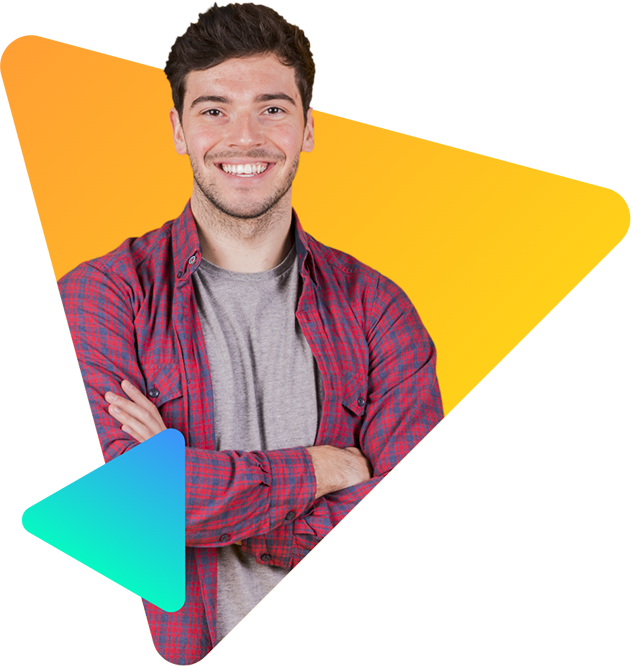
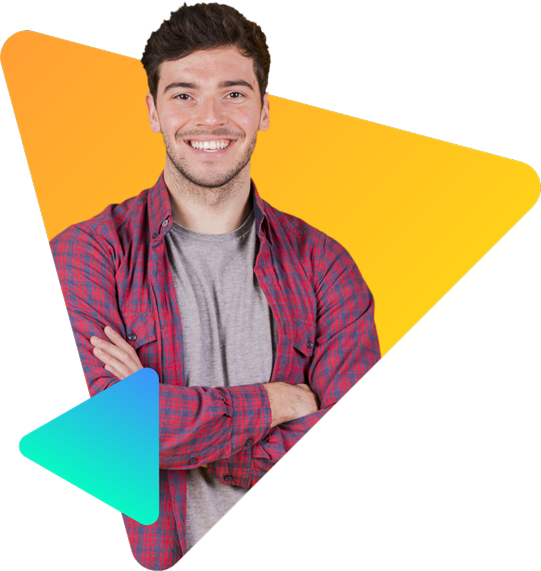
latest

diff --git a/index.html b/index.html
@@ -11,7 +11,7 @@
 </head>
 <body>
     <section class="top-header border ">
-        <div class="half-width">
+        <div id="text-align" class="half-width">
             <h3>Hello I'm </h3>
             <h1 span class="name-highlight">Noor Piash</h1>
             <p>My goal is to established myself as one of the best <span>web developers</span> in the world. I hope that can happen soon
@@ -20,7 +20,7 @@
         </div>
 
         <div class="half-width">
-            <img src="peter.png" alt="">
+            <img class="noorpic" src="noorpiashhdnew.png" alt="">
         </div>
     </section>
 </body>

diff --git a/style.css b/style.css
@@ -8,16 +8,15 @@ body{
 .name-highlight{
     color: rgb(231, 44, 191);
     font-size: 45px;
-    margin-top: 10px;
-     
-
+   
 }
 
-h3{
-    margin-bottom: -15px;
+h1{
+    margin-top: -22px;
+}
+
     
 
-}
 
 p{
     color: grey;
@@ -31,11 +30,14 @@ p{
     
 }
 
+
+
+
 .half-width{
-    width: 40%;
+    width: 380px;
     float: left;
-    margin: 75px;
     text-align: left;
+    margin: 50px;
     
 }
 
@@ -55,6 +57,10 @@ p{
 }
 
 
-section{
-    height: 1000px;
+
+
+
+#text-align{
+    margin: 320px 320px;
 }
+
